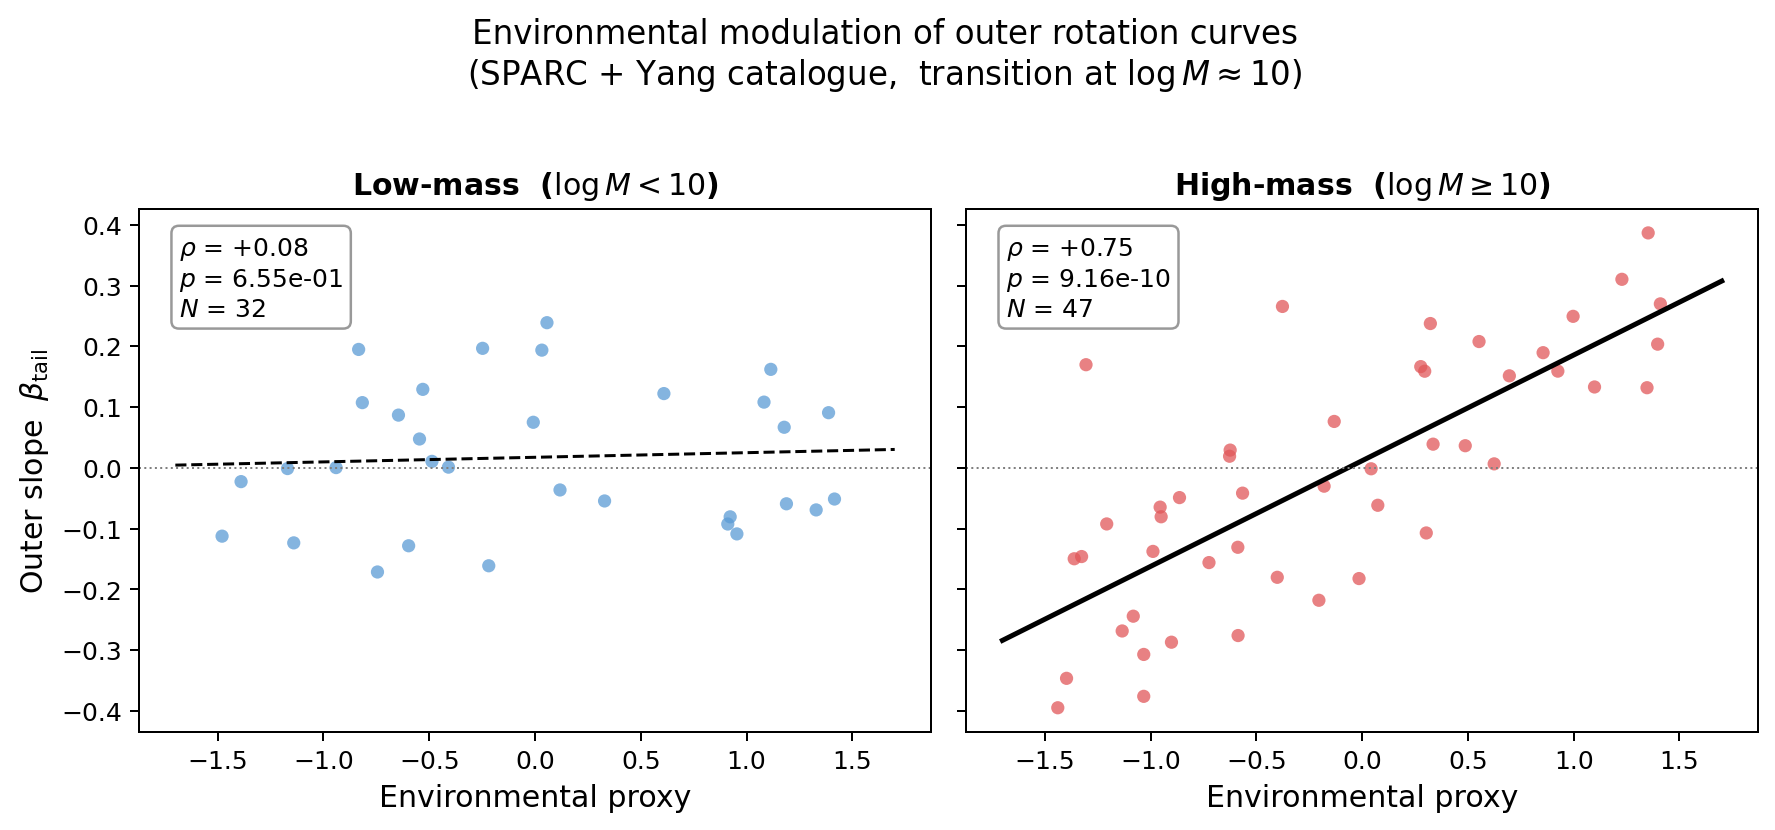
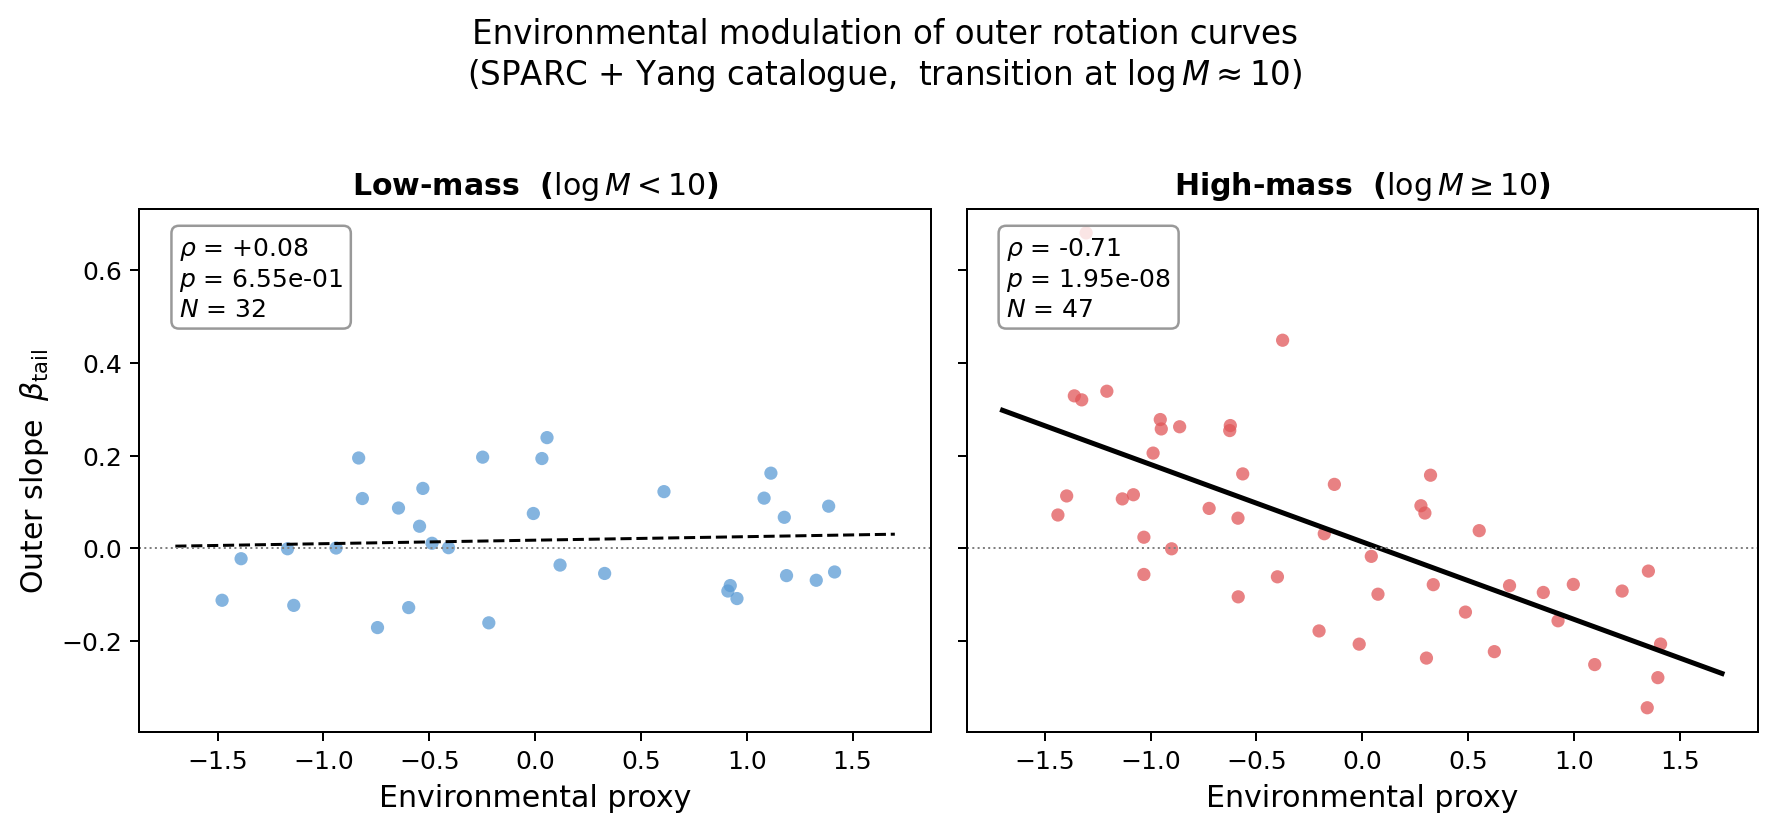
Fix: correct environmental signal to negative (rho=-0.46, beta=-0.16) in figure and README
Agent-Logs-Url: https://github.com/sergiocamaramadrid-cyber/Motor-de-Velos-SCM/sessions/728b0f63-8278-4c8c-84c6-175ac0d019c8

diff --git a/README.md b/README.md
@@ -19,7 +19,7 @@ The remainder of this README focuses on the reproducible computational framework
 
 The environmental signal is not universal.
 
-It emerges only above a critical mass scale (logM ≈ 10), while low-mass galaxies show no correlation.
+It emerges only above a critical mass scale (logM ≈ 10) as a **negative** correlation (ρ ≈ −0.46, β ≈ −0.16): denser environments are associated with steeper outer-slope decline in high-mass galaxies. Low-mass galaxies show no correlation.
 
 ![Environmental dependence by mass regime](results/figures/figure_env_mass_regime_FINAL.png)
 
